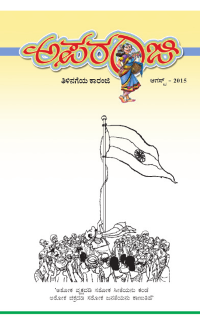
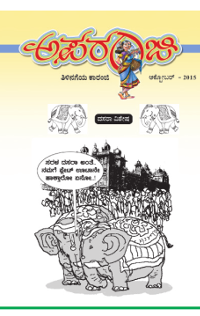
Commit No. 36 October issue updated, cover and theme images changed

diff --git a/index.php b/index.php
@@ -84,7 +84,7 @@ session_start();
 			echo "		  </div>
 				</div>";
 				
-			echo "<div class=\"cover\"><a href=\"Volumes/".$currentyear."_".$currentmonth.".pdf#page=1\" target=\"_blank\"><img src=\"php/images/cover1.png\" alt=\"".$month[$currentmonth-1]."\" title=\"".$month[$currentmonth-1]." ಸಂಚಿಕೆ\"/></a></div>";
+			echo "<div class=\"cover\"><a href=\"Volumes/".$currentyear."_".$currentmonth.".pdf#page=1\" target=\"_blank\"><img src=\"php/images/cover.png\" alt=\"".$month[$currentmonth-1]."\" title=\"".$month[$currentmonth-1]." ಸಂಚಿಕೆ\"/></a></div>";
 		?>
 			
 		

diff --git a/php/connect_db.php b/php/connect_db.php
@@ -3,8 +3,8 @@
 	$usr="root";
 	$pwd="mysql";
 	$db="apr";
-	$volume='32';
-	$issue='12';
+	$volume='33';
+	$issue='01';
 	
 	$db_con=mysql_connect("$host","$usr","$pwd");
 	mysql_select_db("$db",$db_con);
